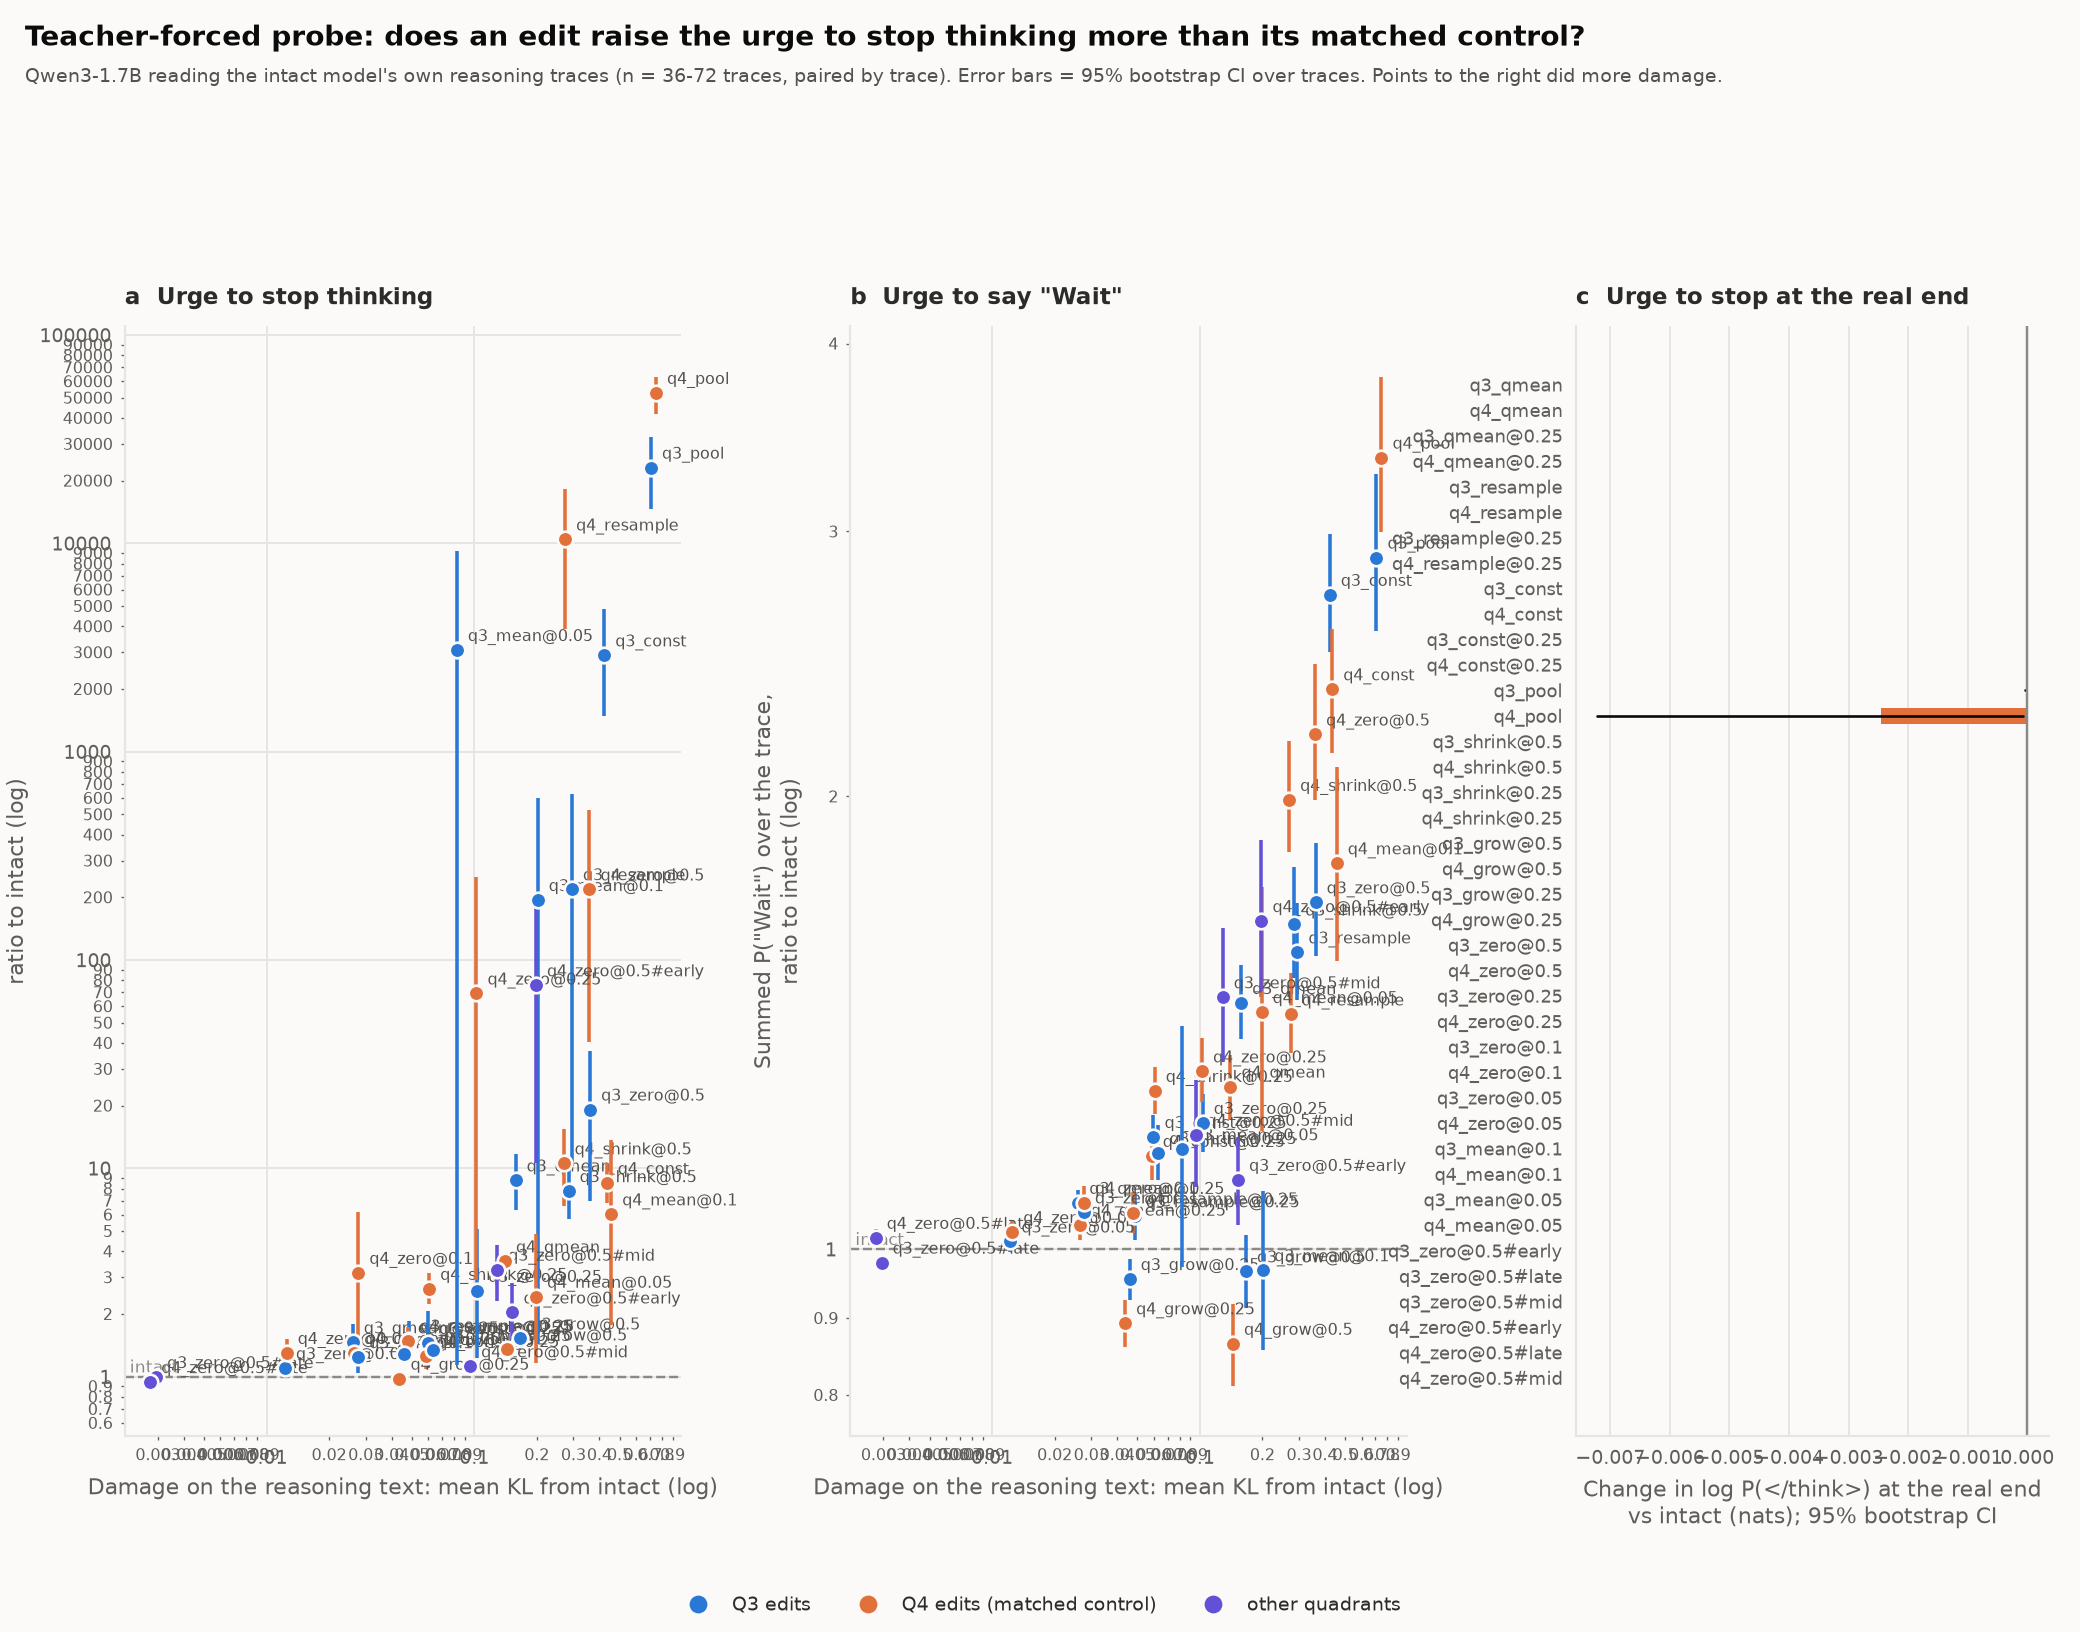
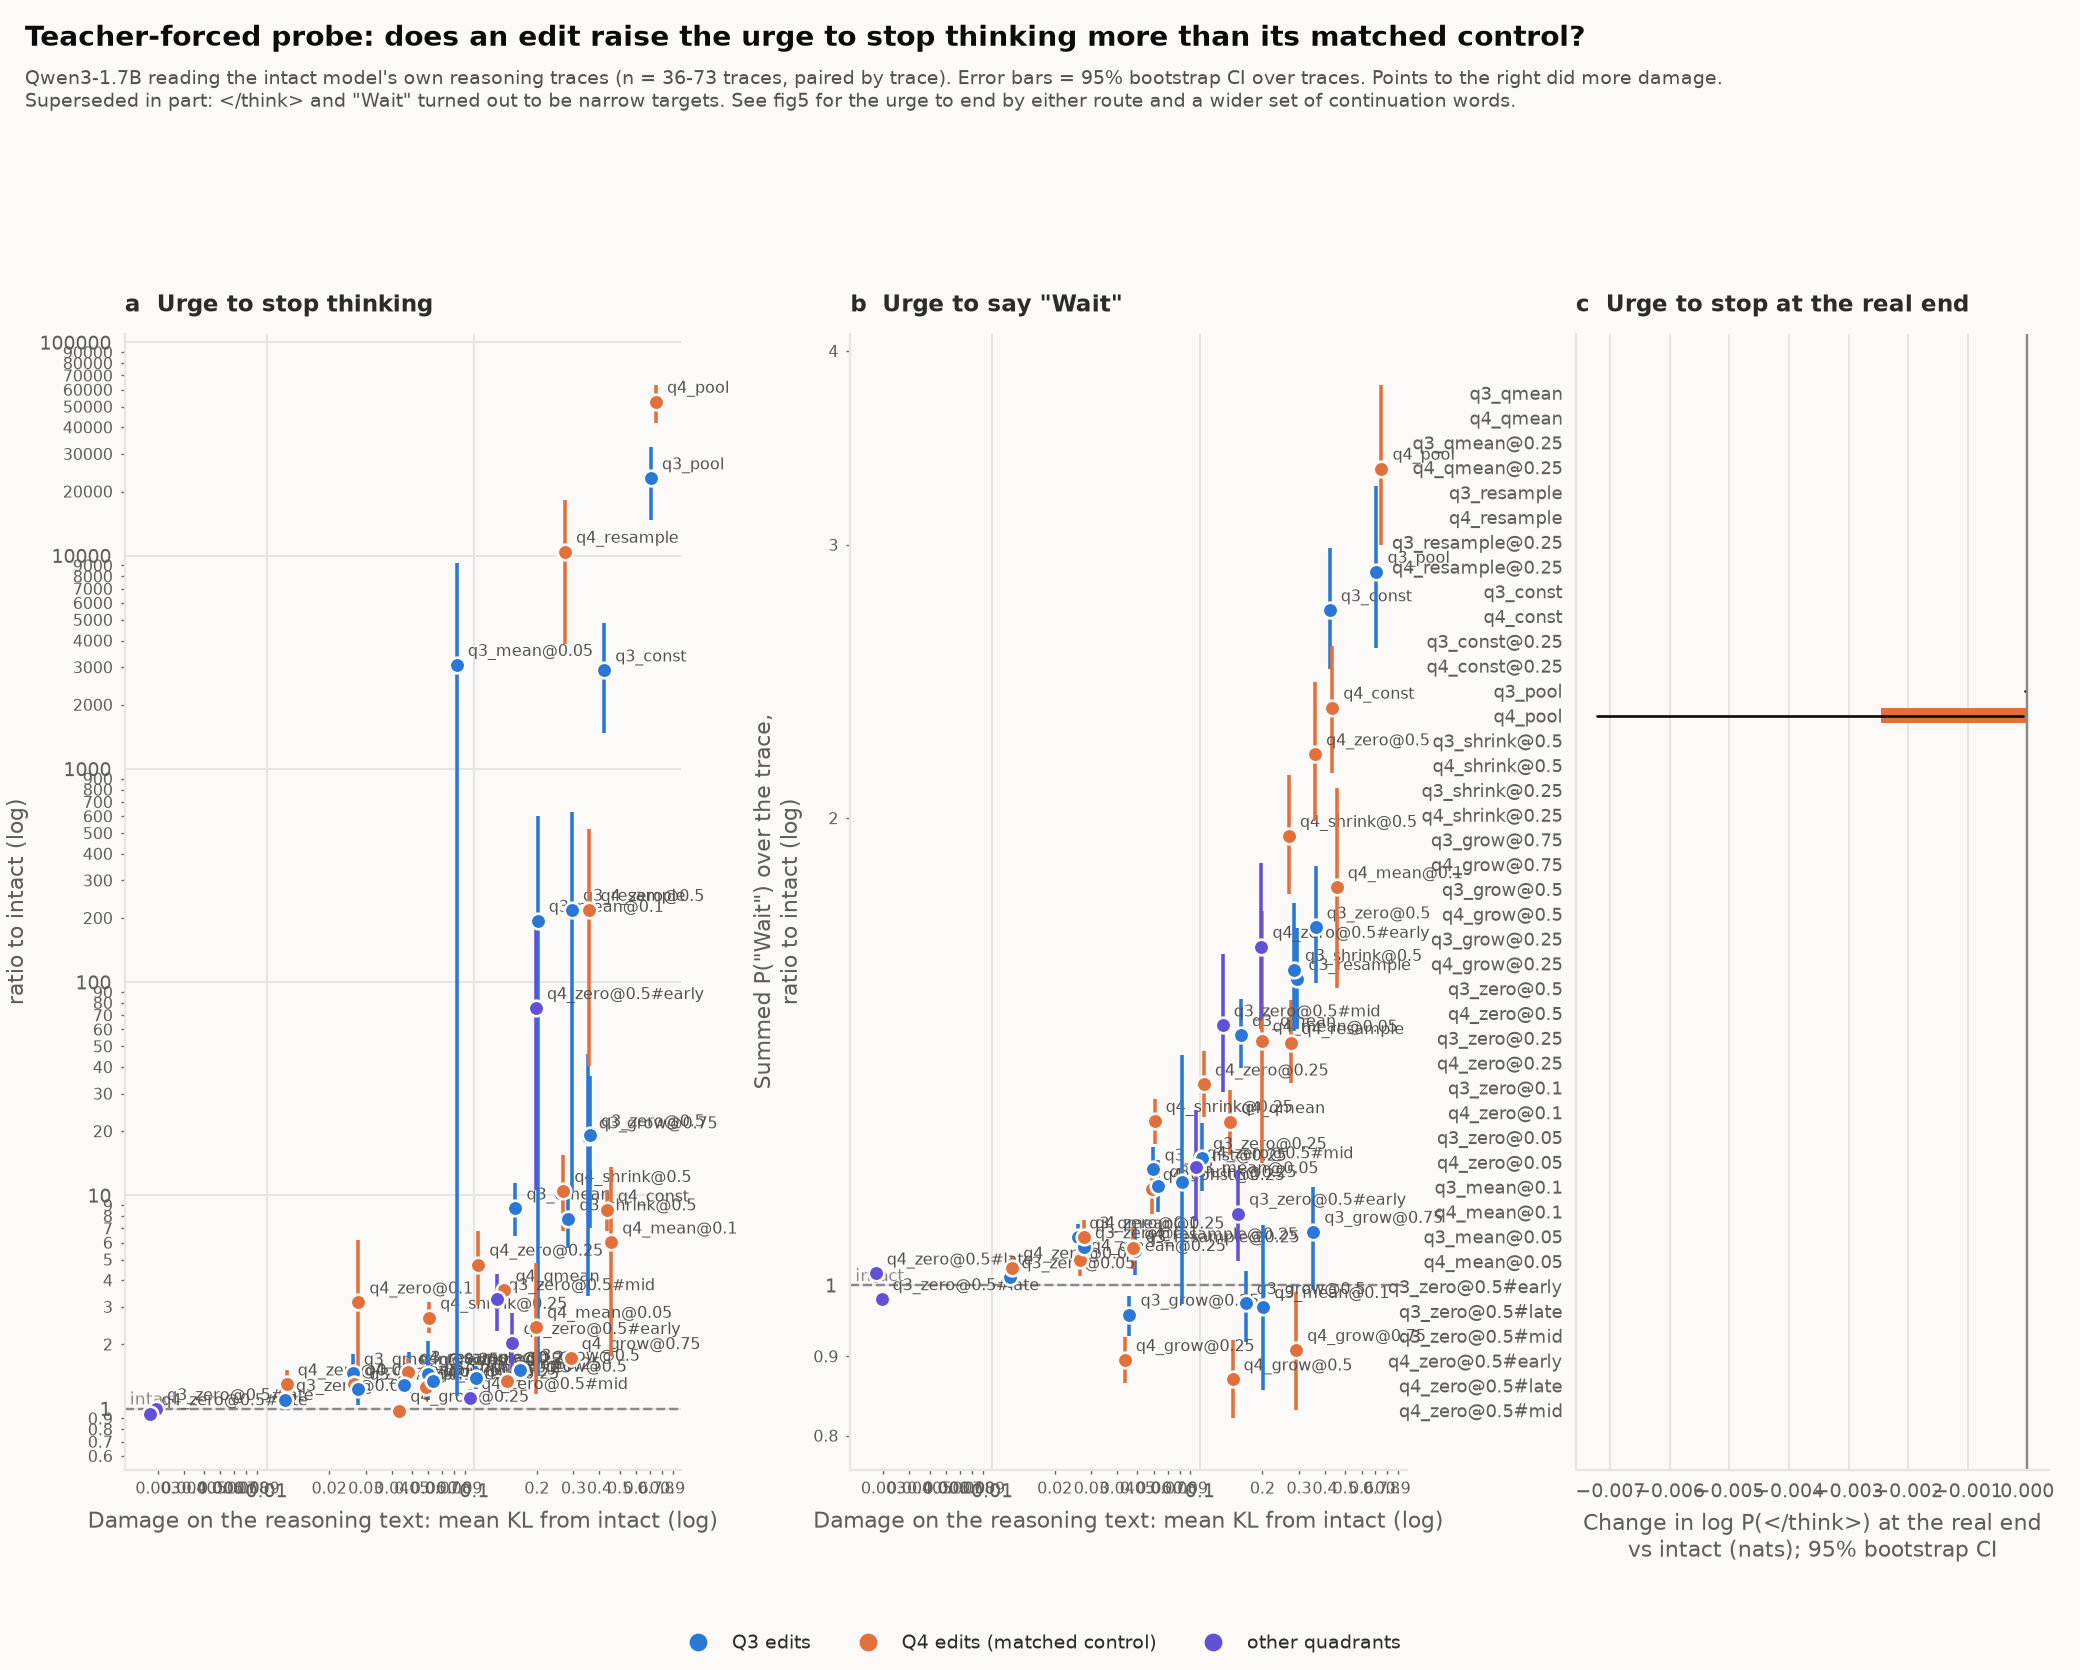
Update figures: fig5 rebuilt on the wider probe measures; fig8 folded into it

diff --git a/src/figures/make_figures.py b/src/figures/make_figures.py
@@ -478,7 +478,9 @@ def fig4_probe(folder: Path, out_dir: Path):
     gs = fig.add_gridspec(1, 3, width_ratios=[1, 1, 0.85], wspace=0.32, left=0.06, right=0.985, top=0.8, bottom=0.12)
     add_header(fig, "Teacher-forced probe: does an edit raise the urge to stop thinking more than its matched control?",
                f"Qwen3-1.7B reading the intact model's own reasoning traces ({n_txt} traces, paired by trace). "
-               "Error bars = 95% bootstrap CI over traces. Points to the right did more damage.")
+               "Error bars = 95% bootstrap CI over traces. Points to the right did more damage.\nSuperseded in part: "
+               "</think> and \"Wait\" turned out to be narrow targets. See fig5 for the urge to end by either "
+               "route and a wider set of continuation words.")
 
     def scatter(ax, metric, title, ylabel):
         ax.set_title(title)
@@ -535,7 +537,7 @@ def fig4_probe(folder: Path, out_dir: Path):
 # ----------------------------------------------------------------------------- fig 5
 
 GAIN_STEPS = [("shrink@0.5", 0.5), ("shrink@0.25", 0.75), ("grow@0.25", 1.25), ("grow@0.5", 1.5)]
-RATIO_TICKS = [0.2, 0.25, 0.33, 0.5, 0.67, 0.8, 1, 1.25, 1.5, 2, 3, 4, 5]
+RATIO_TICKS = [0.1, 0.15, 0.2, 0.25, 0.33, 0.5, 0.67, 0.8, 1, 1.25, 1.5, 2, 3, 4, 5, 7]
 
 
 def _ratio_axis(ax):
@@ -547,79 +549,85 @@ def _ratio_axis(ax):
 
 
 def fig5_probe_conclude(folder: Path, out_dir: Path):
+    """Leak size as a dial, seen by the probe: urge to end, urge to keep going
+    (a SET of continuation words), and "Wait" alone for comparison."""
     name = "fig5_probe_conclude.png"
-    main_p, rep_p = folder / "probe_summary__v3seed0.json", folder / "probe_summary__v2.json"
+    main_p, rep_p = folder / "probe_summary__cont.json", folder / "probe_summary__contseed0.json"
+    old = False
+    if not main_p.exists():  # fall back to the earlier probe (no continuation-word set)
+        main_p, rep_p, old = folder / "probe_summary__v3seed0.json", folder / "probe_summary__v2.json", True
     if not main_p.exists():
         return skip(name, f"no {main_p.name}")
     main = json.loads(main_p.read_text())["per_condition"]
     rep = json.loads(rep_p.read_text())["per_condition"] if rep_p.exists() else {}
-    if not any(f"q3_{s}" in main for s, _ in GAIN_STEPS):
+    steps = GAIN_STEPS + [("grow@0.75", 1.75)]
+    if not any(f"q3_{s}" in main for s, _ in steps):
         return skip(name, "no q3_shrink/grow entries in the probe summary")
-    n_main = sorted({main[f"{q}_{s}"]["n"] for q in ("q3", "q4") for s, _ in GAIN_STEPS if f"{q}_{s}" in main})
-    n_rep = sorted({rep[f"{q}_{s}"]["n"] for q in ("q3", "q4") for s, _ in GAIN_STEPS if f"{q}_{s}" in rep})
+    n_main = sorted({main[f"{q}_{s}"]["n"] for q in ("q3", "q4") for s, _ in steps if f"{q}_{s}" in main})
+    n_rep = sorted({rep[f"{q}_{s}"]["n"] for q in ("q3", "q4") for s, _ in steps if f"{q}_{s}" in rep})
+    if old:
+        panels = [("conclude", "a  Urge to conclude early", "ratio to intact (log scale)"),
+                  ("wait", 'b  Urge to say "Wait"', "ratio to intact (log scale)")]
+    else:
+        panels = [("end_either", "a  Urge to end early (either route)", "Summed probability along the trace,\nratio to intact (log scale)"),
+                  ("continue_any", "b  Urge to keep going (any of 6 word groups)", ""),
+                  ("wait", 'c  "Wait" alone (the earlier, narrower measure)', "")]
 
-    fig, axes = plt.subplots(1, 2, figsize=(12, 5.3), sharex=True)
-    fig.subplots_adjust(left=0.075, right=0.955, top=0.76, bottom=0.2, wspace=0.26)
-    add_header(fig, "Turning the leak size up or down: Q3 and Q4 pull the urge to conclude in opposite directions",
-               f"Qwen3-1.7B reading the intact model's own reasoning traces (teacher-forced, n = {n_main[0]} traces, "
-               "paired by trace). Each quadrant's firings are all multiplied by x. Points = geometric-mean ratio vs "
-               "intact;\nerror bars = 95% bootstrap CI over traces. Hollow points = the x0.75 / x1.25 edits on a "
-               f"separate set of {n_rep[0] if n_rep else '?'} traces (seed 1), as a replication.")
-    panels = [("conclude", "a  Urge to conclude early",
-               "Summed P(start the final answer) before the real\nend, ratio to intact (log scale)"),
-              ("wait", "b  Urge to say \"Wait\"", "Summed P(\"Wait\") over the trace,\nratio to intact (log scale)")]
-    off = {"q3": -0.012, "q4": 0.012}
+    fig, axes = plt.subplots(1, len(panels), figsize=(5.4 * len(panels), 5.5), sharex=True)
+    fig.subplots_adjust(left=0.07, right=0.965, top=0.74, bottom=0.2, wspace=0.24)
+    add_header(fig, "Leak size as a dial: bigger Q3 leaks raise the urge to end and lower the urge to keep going",
+               f"Qwen3-1.7B reading the intact model's own reasoning (teacher-forced, {n_main[0]} traces, paired by "
+               "trace). Every firing in the quadrant is multiplied by x. Lines = mean ratio vs intact, shaded = 95% "
+               f"bootstrap interval.\nHollow points = the same edits on {n_rep[0] if n_rep else '?'} other traces "
+               "(replication). Panel a counts starting the Final Answer block or closing </think> directly. Panel b "
+               "sums Wait, But,\nAlternatively, Hmm, maybe and check/verify/confirm. Panels b and c share a scale: "
+               '"Wait" alone hides the Q3-vs-Q4 difference that the wider set shows.')
     for ax, (metric, title, ylabel) in zip(axes, panels):
         ax.set_title(title)
-        ax.axhline(0, color=INTACT_COL, lw=1.1, ls="--", zorder=1)
-        ax.axvline(1.0, color=GRID, lw=0.8, zorder=0)
+        ax.axhline(0, color=INTACT_COL, lw=1.1, ls=":", zorder=1)
         ends = []
         for q, col in (("q3", Q3_COL), ("q4", Q4_COL)):
             xs, ys, los, his = [1.0], [0.0], [0.0], [0.0]
-            for s, x in GAIN_STEPS:
-                r = main.get(f"{q}_{s}")
-                if r is None:
+            for s_, x in steps:
+                r = main.get(f"{q}_{s_}")
+                if r is None or r.get(metric) is None:
                     continue
-                xs.append(x)
-                ys.append(r[metric]["mean"])
-                los.append(r[metric]["ci"][0])
-                his.append(r[metric]["ci"][1])
+                xs.append(x); ys.append(r[metric]["mean"]); los.append(r[metric]["ci"][0]); his.append(r[metric]["ci"][1])
             o = np.argsort(xs)
             xs, ys, los, his = (np.array(v)[o] for v in (xs, ys, los, his))
-            ax.plot(xs + off[q], ys, color=col, lw=2, zorder=3)
-            ax.errorbar(xs + off[q], ys, yerr=[ys - los, his - ys], fmt="o", color=col, ms=7, mec=style.SURFACE, mew=1.2,
-                        elinewidth=1.6, capsize=0, zorder=4)
-            ends.append((xs[-1] + off[q], ys[-1], q.upper(), col))
-            for s, x in GAIN_STEPS:
-                r = rep.get(f"{q}_{s}")
-                if r is None:
+            style.line_with_band(ax, xs, ys, los, his, col, None)
+            ends.append((xs[-1], ys[-1], q.upper(), col))
+            for s_, x in steps:
+                r = rep.get(f"{q}_{s_}")
+                if r is None or r.get(metric) is None:
                     continue
-                m, (lo, hi) = r[metric]["mean"], r[metric]["ci"]
-                xx = x + 3 * off[q]
-                ax.plot([xx, xx], [lo, hi], color=col, lw=1.0, alpha=0.6, zorder=2)
-                ax.plot(xx, m, "o", mfc=style.SURFACE, mec=col, mew=1.6, ms=6.5, zorder=5)
+                ax.plot(x, r[metric]["mean"], "o", mfc=style.SURFACE, mec=col, mew=1.6, ms=7.5, zorder=5)
+        ends.sort(key=lambda e: e[1])
+        ax.set_xlim(0.4, 1.9)
+        ax.set_xticks([0.5, 0.75, 1.0, 1.25, 1.5, 1.75])
+        ax.set_xticklabels(["×0.5", "×0.75", "×1", "×1.25", "×1.5", "×1.75"])
+        ax.set_xlabel("Leak size (multiplier on every firing)")
+        ax.set_ylabel(ylabel)
+        ax._ends = ends
+    if not old:  # same scale for the two continuation panels
+        lo = min(axes[1].get_ylim()[0], axes[2].get_ylim()[0]); hi = max(axes[1].get_ylim()[1], axes[2].get_ylim()[1])
+        axes[1].set_ylim(lo, hi); axes[2].set_ylim(lo, hi)
+    for ax in axes:
         lo, hi = ax.get_ylim()
         gap = 0.07 * (hi - lo)
-        ends.sort(key=lambda e: e[1])
+        ends = ax._ends
         if len(ends) == 2 and ends[1][1] - ends[0][1] < gap:
             mid = (ends[0][1] + ends[1][1]) / 2
-            ends = [(*ends[0][:1], mid - gap / 2, *ends[0][2:]), (*ends[1][:1], mid + gap / 2, *ends[1][2:])]
+            ends = [(ends[0][0], mid - gap / 2, *ends[0][2:]), (ends[1][0], mid + gap / 2, *ends[1][2:])]
         for x, y, lab, col in ends:
-            ax.annotate(lab, (x, y), xytext=(9, 0), textcoords="offset points", va="center", fontsize=9.5,
-                        fontweight="bold", color=col)
-        ax.set_xlim(0.4, 1.62)
-        ax.set_xticks([0.5, 0.75, 1.0, 1.25, 1.5])
-        ax.set_xticklabels(["×0.5", "×0.75", "×1\nintact", "×1.25", "×1.5"])
-        ax.set_xlabel("Size of that quadrant's leaks (multiplier on every firing)")
-        ax.set_ylabel(ylabel)
+            ax.annotate(lab, (x, y), xytext=(11, 0), textcoords="offset points", va="center", fontsize=10.5, color=col)
         _ratio_axis(ax)
-        ax.text(0.41, 0, "intact", fontsize=7.8, color=INTACT_COL, va="bottom")
     from matplotlib.lines import Line2D
-    handles = [Line2D([], [], color=Q3_COL, lw=2, marker="o", ms=7, mec=style.SURFACE, label="Q3 leaks scaled"),
-               Line2D([], [], color=Q4_COL, lw=2, marker="o", ms=7, mec=style.SURFACE, label="Q4 leaks scaled (matched control)"),
-               Line2D([], [], ls="", marker="o", ms=6.5, mfc=style.SURFACE, mec=INK2, mew=1.6,
-                      label="independent traces (seed 1)"),
-               Line2D([], [], color=INTACT_COL, ls="--", lw=1.1, label="intact model")]
+    handles = [Line2D([], [], color=Q3_COL, lw=2.4, marker="o", ms=6, label="Q3 leaks scaled"),
+               Line2D([], [], color=Q4_COL, lw=2.4, marker="o", ms=6, label="Q4 leaks scaled (matched control)"),
+               Line2D([], [], ls="", marker="o", ms=7.5, mfc=style.SURFACE, mec=INK2, mew=1.6,
+                      label="replication on other traces"),
+               Line2D([], [], color=INTACT_COL, ls=":", lw=1.1, label="intact model")]
     fig.legend(handles=handles, loc="lower center", ncol=4, bbox_to_anchor=(0.5, 0.0))
     save(fig, out_dir, name)
 

diff --git a/README.md b/README.md
@@ -34,7 +34,7 @@ relative to where you run from). Scripts find each other's folders on their own.
 | **`src/probe/`** | the teacher-forced probe (no sampling) |
 | `probe_stop.py` | replays the intact model's reasoning under each edit and measures the urge to say "Wait" or to conclude |
 | `analyze_probe.py`, `analyze_timing.py` | probe statistics; leak activity around "Wait" and the final answer |
-| **`src/figures/`** | `make_figures.py`, `plot_q3.py`, `fig_gain_dose.py` (leak-size dose-response), `fig_probe_words.py` (probe with a set of continuation words), `style.py` (shared look) |
+| **`src/figures/`** | `make_figures.py`, `plot_q3.py`, `fig_gain_dose.py` (leak-size dose-response), `style.py` (shared look) |
 | **`src/sparsity_sweep/`** | earlier top-k sparsity sweep: `run_sweep.py`, `plot_results.py` |
 | **`tests/`** | `test_quadrants.py`, `test_smoke.py`: offline checks on a tiny random model |
 | `results/` | per-problem records (`.jsonl`, with full text), damage scans, probe output, figures; `results/old/` holds superseded runs |

diff --git a/FINDINGS.md b/FINDINGS.md
@@ -871,7 +871,9 @@ What changes and what stands:
   shows Q4 slightly SHORTER (0.82-0.93). So the earlier tidy account ("two
   mechanisms that cancel for Q4") no longer works for the grow direction and
   the mild Q4 shortening is unexplained by the probe.
-Figures: `figures/fig8_probe_continuation_words.png` (and `__contseed0`).
+Figure: `figures/fig5_probe_conclude.png`, rebuilt on these runs (urge to end by either route, any
+continuation word, and "Wait" alone for comparison; hollow points are the seed-0 traces).
+`fig4_probe.png` still shows the earlier `</think>` / "Wait"-only probe and says so in its caption.
 Files: `probe_stop__cont.jsonl`, `probe_stop__contseed0.jsonl`,
 `probe_summary__cont*.json/.txt`.
 
